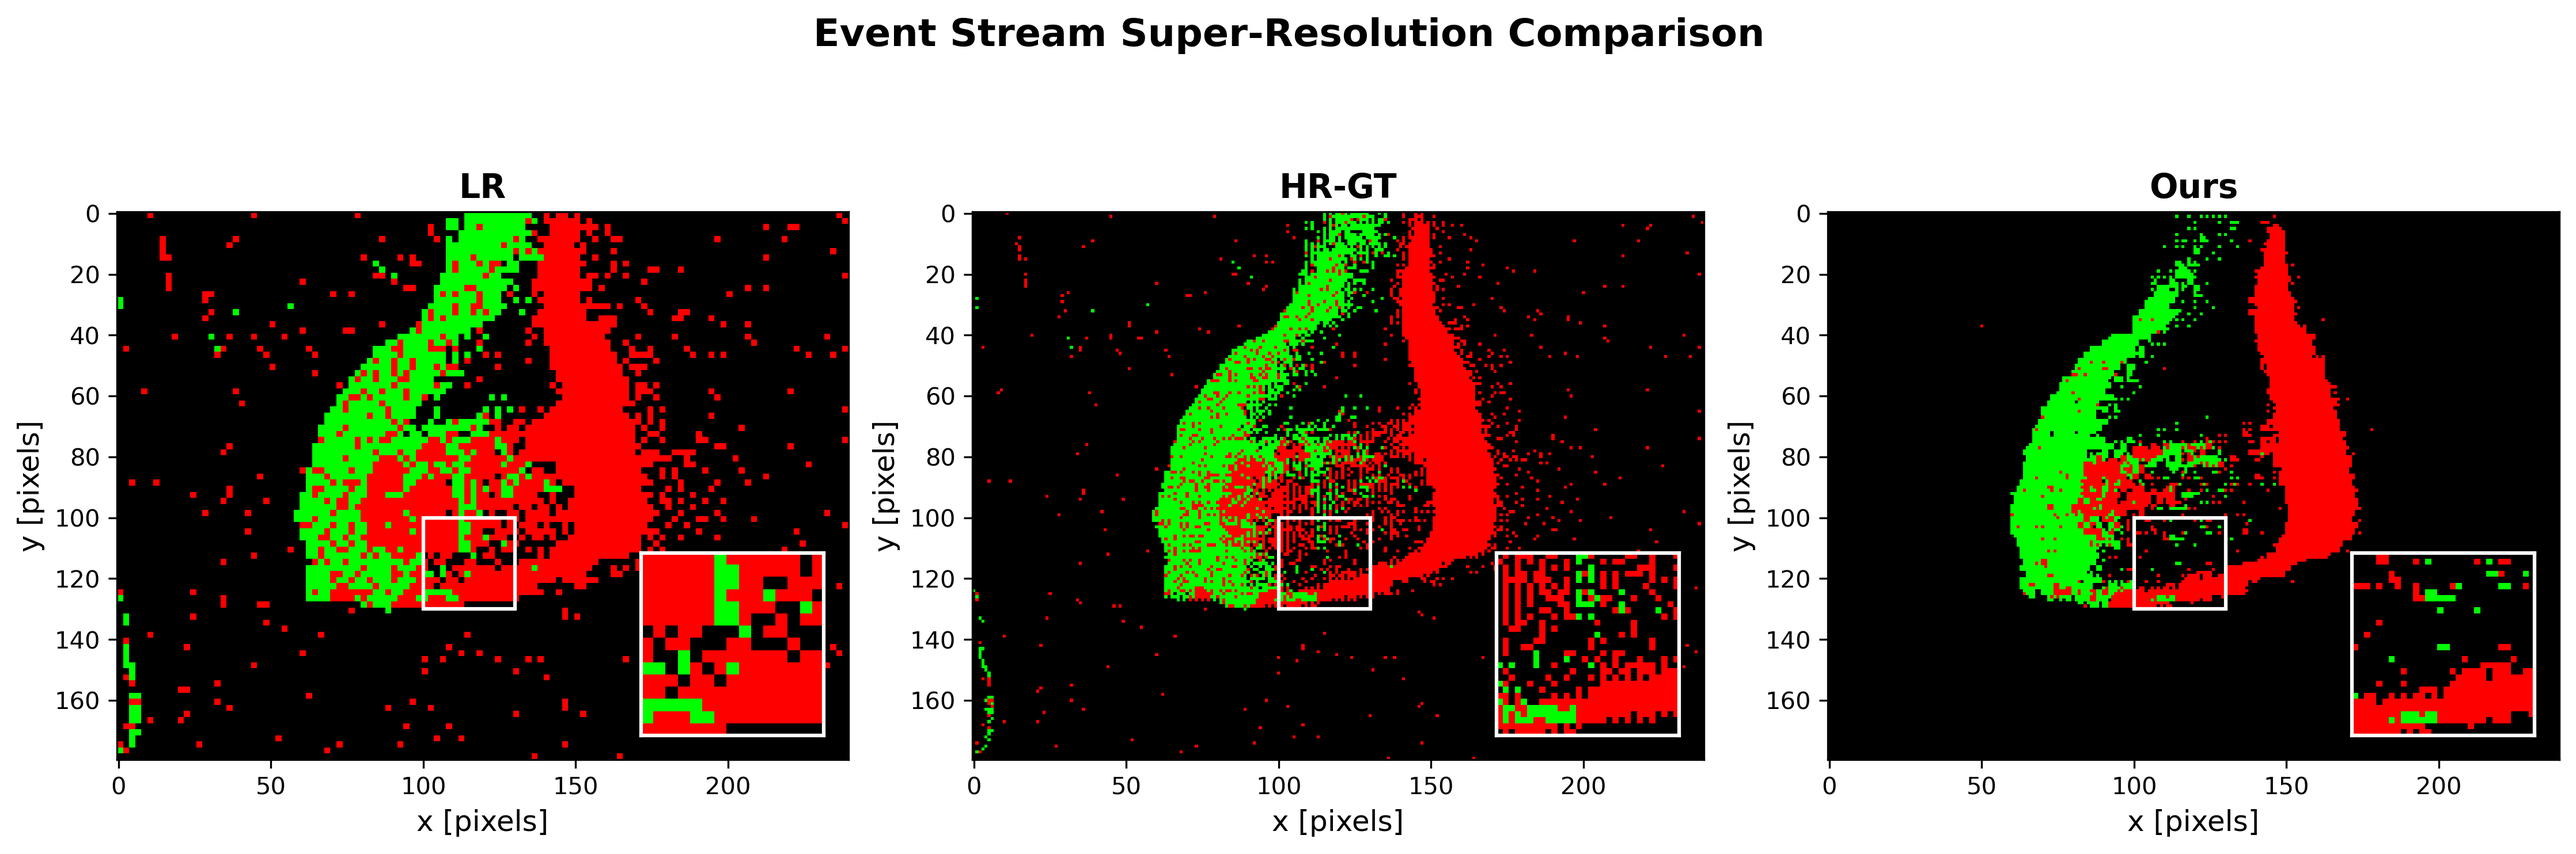
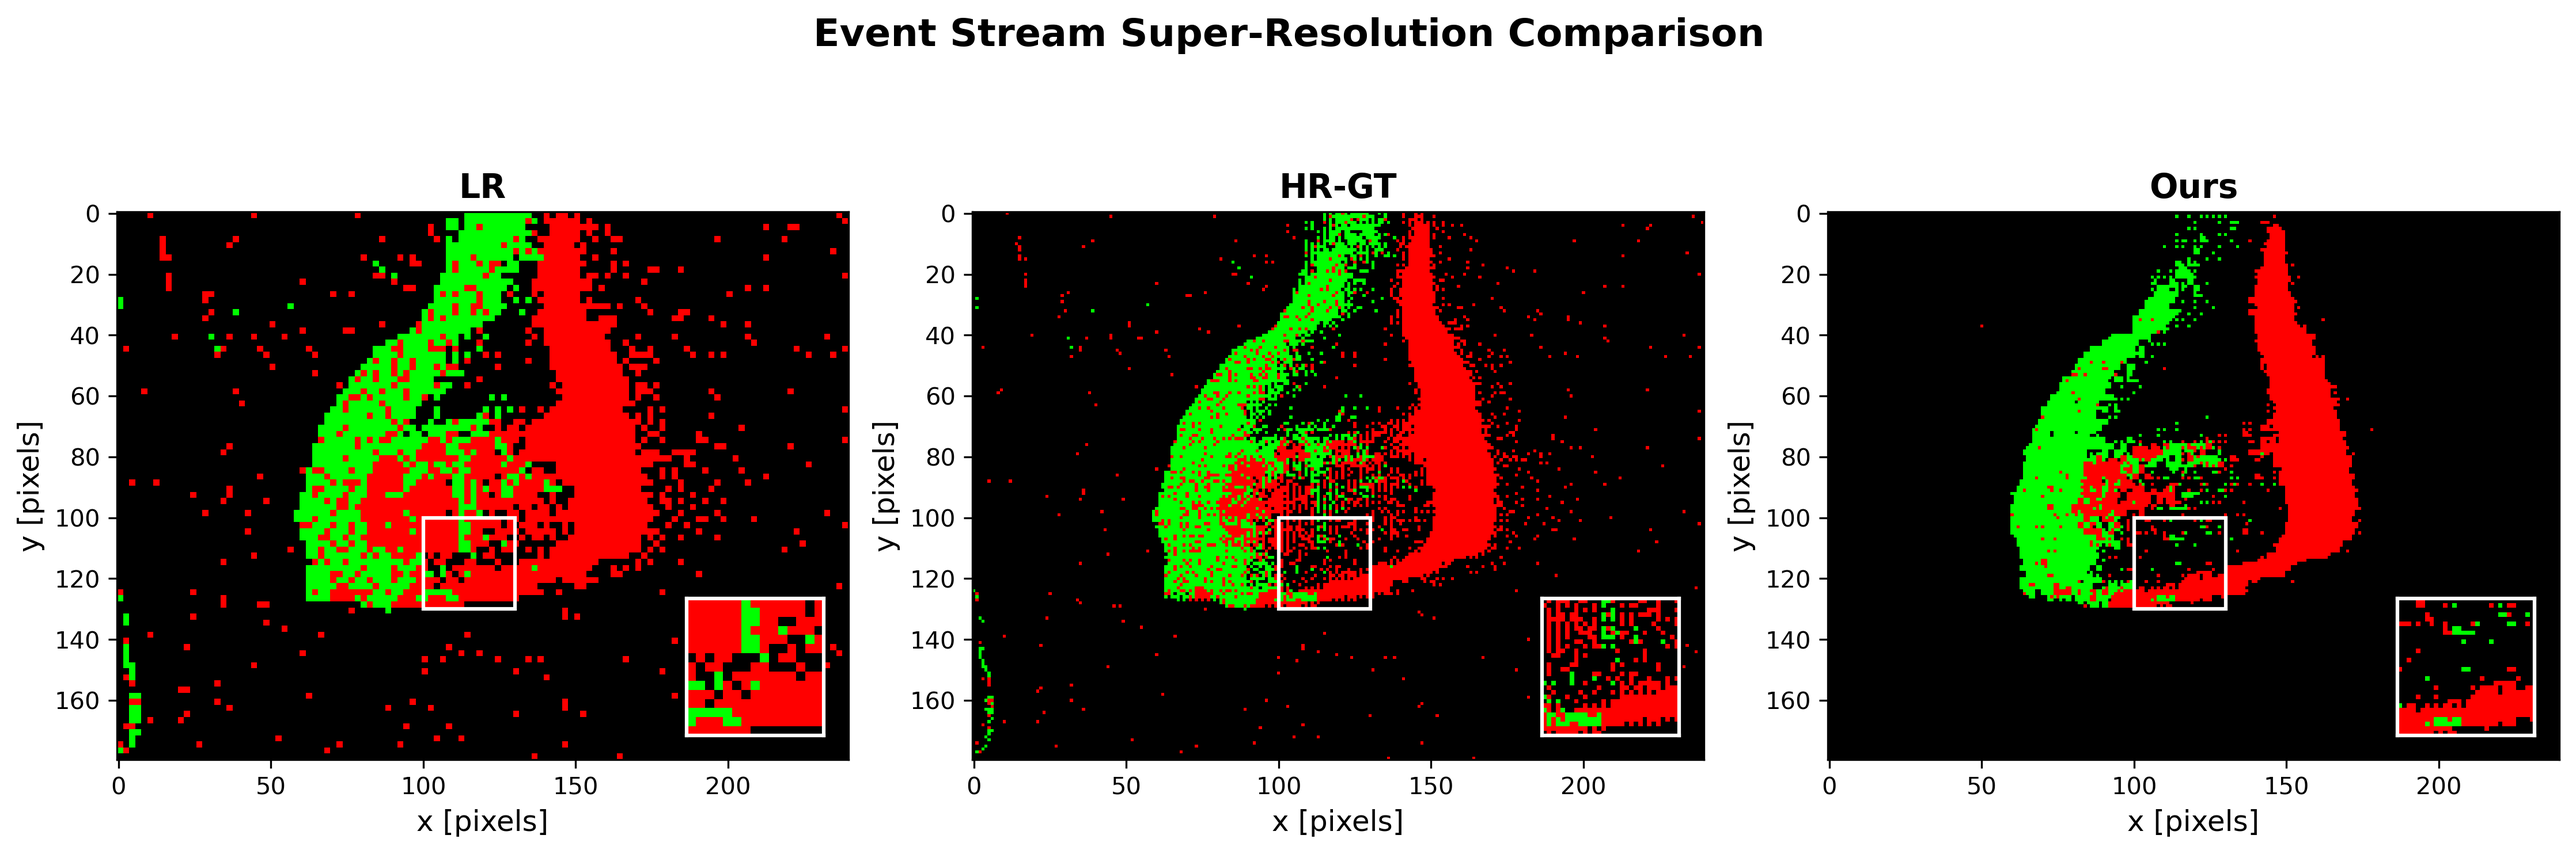
test

Changed region(s): [[0.5595, 0.6199, 0.6527, 0.8679], [0.2487, 0.6199, 0.3419, 0.8679], [0.9014, 0.6199, 0.9946, 0.8679]]

diff --git a/visual1/comparison.py b/visual1/comparison.py
@@ -365,12 +365,12 @@ if __name__ == "__main__":
     bbox_width = 30  # Width of magnification region
     bbox_height = 30  # Height of magnification region
     magnify_position = "bottom-right"  # Corner placement: 'top-left', 'top-right', 'bottom-left', 'bottom-right'
-    magnify_scale = 2  # Magnification factor (subtle for academic papers)
+    magnify_scale = 1.5  # Magnification factor
 
     # Color control parameters
     magnify_color = "White"  # Color of magnification border
     positive_color = [1.0, 0.0, 0.0]  # Red for positive events
-    negative_color = [0.0, 1, 0]  # Bright greenish-blue for negative events
+    negative_color = [0.0, 1, 0]  # Bright green for negative events
     background_color = [0.0, 0.0, 0.0]  # Black background
 
     # Generate comparison
